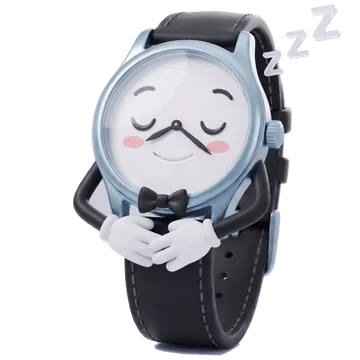
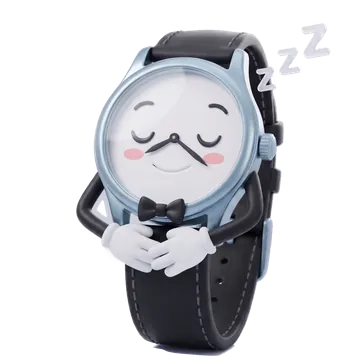
Mascota: 13 poses nuevas (lupa, senala, regla, paquete, celebra, triste, muneca, lee, noche, navidad, madre, sanvalentin, padre) y frases segun el momento: saludo por la hora o "¡Cuanto tiempo!" si vuelve tras dias, busqueda sin resultados con lupa (el globito abre WhatsApp con lo buscado), "¿Volvem

Changed region(s): [[0.1833, 0.0, 0.9472, 1.0], [0.4278, 0.9472, 0.4889, 0.9778]]

diff --git a/js/catalogo/mascota.js b/js/catalogo/mascota.js
@@ -9,6 +9,7 @@ import { WHATSAPP_NUM } from './whatsapp.js';
 import { buscadorAbierto, toggleBuscador } from './buscador.js';
 import { vibrar } from './ui.js';
 import { sesion } from './sesion.js';
+import { ofertaDe } from '../sitio/promos.js';
 
 const ICONOS = {
   chat: '<path d="M21 12a8 8 0 0 1-11.6 7.1L4 20.5l1.4-4.9A8 8 0 1 1 21 12z"/><path d="M8.5 10.5h7M8.5 13.5h4.5"/>',
@@ -23,31 +24,60 @@ const OPCIONES = [
 ];
 
 // Poses 3D de la mascota (img/mascota/*.webp, 360x360 con fondo transparente, todas con el mismo encuadre).
-// Se apilan y solo se ve la pose activa (data-pose en .mascota). La normal es 'recepcion' (manos juntas,
-// agujas en 8:20 como bigote); 'saludo' es la de entrada.
-const POSES = ['recepcion', 'saludo', 'pulgar', 'pensativo', 'sorpresa', 'enamorado', 'dormido', 'tapa'];
-const POSES_YA = ['recepcion', 'saludo'];   // se ven al abrir la pagina: se cargan de una vez
+// Se apilan y solo se ve la pose activa (clase .activa). La normal es 'recepcion' (manos juntas, agujas en
+// 8:20 como bigote) o la de temporada; 'saludo' es la de entrada.
+// POSES = imagenes que YA existen en img/mascota/. Poka-yoke: una pose pedida que aun no tiene imagen usa
+// su RESPALDO (nunca se ve una imagen rota). Al subir una imagen nueva basta con sumarla a POSES.
+const POSES = ['recepcion', 'saludo', 'pulgar', 'pensativo', 'sorpresa', 'enamorado', 'dormido', 'tapa',
+  'lupa', 'senala', 'regla', 'paquete', 'celebra', 'triste', 'muneca', 'lee', 'noche',
+  'navidad', 'madre', 'sanvalentin', 'padre'];
+const RESPALDO = { lupa: 'pensativo', senala: 'pulgar', regla: 'pensativo', paquete: 'pulgar', celebra: 'saludo',
+  triste: 'pensativo', muneca: 'saludo', lee: 'pensativo', noche: 'dormido',
+  navidad: 'recepcion', madre: 'recepcion', sanvalentin: 'recepcion', padre: 'recepcion' };
+function resolverPose(p){
+  for(var i = 0; i < 3 && POSES.indexOf(p) < 0; i++) p = RESPALDO[p] || 'recepcion';
+  return POSES.indexOf(p) >= 0 ? p : 'recepcion';
+}
+// temporada (Panama): la pose normal y el saludo cambian solos en estas fechas
+function temporada(f){
+  f = f || new Date();
+  var m = f.getMonth() + 1, d = f.getDate();
+  if(m === 12 && d <= 8) return 'madre';                 // Dia de la Madre: 8 de diciembre
+  if(m === 12) return 'navidad';
+  if(m === 2 && d >= 7 && d <= 14) return 'sanvalentin';
+  if(m === 6){                                           // Dia del Padre: tercer domingo de junio (10 dias antes)
+    var dom = 1 + (7 - new Date(f.getFullYear(), 5, 1).getDay()) % 7 + 14;
+    if(d >= dom - 10 && d <= dom) return 'padre';
+  }
+  return '';
+}
+const FRASE_TEMPORADA = { madre: '¿Ya tienes el regalo de mamá?', navidad: '¿Buscas el regalo de Navidad perfecto?',
+  sanvalentin: '¿Un regalo para San Valentín?', padre: '¿Ya tienes el regalo de papá?' };
+const POSES_YA = ['recepcion', 'saludo', resolverPose(temporada())];   // se ven al abrir la pagina: se cargan de una vez
 const DIBUJO = '<span class="masc-poses" aria-hidden="true">' + POSES.map(function(p){
-  // la pose inicial se carga ya; las demas cuando la pagina termina de cargar (ver precargarPoses)
+  // las poses iniciales se cargan ya; las demas cuando la pagina termina de cargar (ver precargarPoses)
   return '<img class="masc-pose" data-p="' + p + '" alt="" width="360" height="360" decoding="async" draggable="false" ' +
     (POSES_YA.indexOf(p) >= 0 ? 'src' : 'data-src') + '="img/mascota/' + p + '.webp">';
 }).join('') + '</span>';
 
 // Que pose mostrar segun la cara y el gesto que pide el resto del codigo.
-// Prioridad: contrasena (tapa; espia tambien usa tapa) > cara > gesto > recepcion.
-const POSE_DE_CARA = { feliz: 'saludo', guino: 'pulgar', emocionado: 'pulgar', timido: 'pulgar', sorpresa: 'sorpresa',
-  pensativo: 'pensativo', arriba: 'pensativo', enamorado: 'enamorado', dormido: 'dormido' };
-const POSE_DE_GESTO = { pulgar: 'pulgar', senala: 'pulgar', menton: 'pensativo' };
+// Prioridad: contrasena (tapa; espia tambien usa tapa) > cara > gesto > pose normal (temporada o recepcion).
+// Una cara que no esta en POSE_DE_CARA se usa como nombre de pose (lupa, paquete, celebra, triste...).
+const POSE_DE_CARA = { feliz: 'saludo', guino: 'pulgar', emocionado: 'pulgar', timido: 'pulgar', arriba: 'pensativo' };
+const POSE_DE_GESTO = { pulgar: 'pulgar', senala: 'senala', menton: 'pensativo', regla: 'regla' };
 function poseActual(){
   var g = _raiz.dataset.gesto, c = _raiz.dataset.cara;
   if(g === 'tapa' || g === 'espia') return 'tapa';
-  return POSE_DE_CARA[c] || POSE_DE_GESTO[g] || 'recepcion';
+  return resolverPose((c && (POSE_DE_CARA[c] || c)) || POSE_DE_GESTO[g] || temporada() || 'recepcion');
 }
 function actualizarPose(){
   var p = poseActual();
   if(_raiz.dataset.pose === p) return;
-  var img = _raiz.querySelector('.masc-pose[data-p="' + p + '"]');
-  if(img && !img.getAttribute('src')) img.src = img.dataset.src;   // por si se pide antes de precargar
+  _raiz.querySelectorAll('.masc-pose').forEach(function(img){
+    var es = img.dataset.p === p;
+    if(es && !img.getAttribute('src')) img.src = img.dataset.src;   // por si se pide antes de precargar
+    img.classList.toggle('activa', es);
+  });
   _raiz.dataset.pose = p;
 }
 function precargarPoses(){
@@ -102,7 +132,8 @@ function cerrarPanel(){
   _panel.classList.remove('on');
   setTimeout(function(){ if(!_abierta) _panel.hidden = true; }, 220);
 }
-function ocultarBurbuja(){ if(_burbuja) _burbuja.classList.remove('on'); }
+let _accionBurbuja = null;   // lo que hace tocar el globito (volver arriba, WhatsApp...), si tiene
+function ocultarBurbuja(){ if(_burbuja){ _burbuja.classList.remove('on', 'con-accion'); _accionBurbuja = null; } }
 
 function crear(){
   _raiz = document.createElement('div');
@@ -145,13 +176,36 @@ function crear(){
   document.addEventListener('click', function(e){ if(_abierta && !_raiz.contains(e.target)) cerrarPanel(); });
   document.addEventListener('keydown', function(e){ if(e.key === 'Escape' && _abierta){ cerrarPanel(); _boton.focus(); } });
 
-  // saludo la primera vez en la sesion: "¿Te ayudo a elegir?" unos segundos
-  var visto = false;
+  // tocar el globito hace su accion (si tiene): volver arriba, escribir por WhatsApp...
+  _burbuja.addEventListener('click', function(){ var a = _accionBurbuja; ocultarBurbuja(); if(a) a(); });
+
+  saludoInicial();
+}
+
+// Saludo la primera vez en la sesion (unos segundos despues de entrar), segun el caso:
+//   volvio tras 3 dias o mas -> mira su "muneca": "¡Cuanto tiempo! Mira lo nuevo"
+//   temporada (Navidad, Dia de la Madre, San Valentin, Dia del Padre) -> la frase de la fecha
+//   primera visita del dia -> buenos dias / buenas tardes / buenas noches (de noche: "¿Desvelado?")
+//   si no -> "¿Te ayudo a elegir?"
+function saludoInicial(){
+  var visto = false, ultima = 0, ahora = Date.now();
   try{ visto = sessionStorage.getItem('ap_masc_hola') === '1'; sessionStorage.setItem('ap_masc_hola', '1'); }catch(e){}
-  if(!visto){
-    setTimeout(function(){ if(!_abierta) _burbuja.classList.add('on'); }, 2600);
-    setTimeout(ocultarBurbuja, 9000);
+  try{ ultima = +localStorage.getItem('ap_masc_ultima') || 0; localStorage.setItem('ap_masc_ultima', String(ahora)); }catch(e){}
+  if(visto) return;
+  var h = new Date().getHours(), temp = temporada();
+  var otroDia = !ultima || new Date(ultima).toDateString() !== new Date(ahora).toDateString();
+  var texto = '¿Te ayudo a elegir?', cara = '';
+  if(ultima && ahora - ultima >= 3 * 864e5){ texto = '¡Cuánto tiempo! Mira lo nuevo'; cara = 'muneca'; }
+  else if(temp){ texto = FRASE_TEMPORADA[temp]; }
+  else if(otroDia){
+    if(h >= 22 || h < 6){ texto = '¡Buenas noches! ¿Desvelado? Yo también'; cara = POSES.indexOf('noche') >= 0 ? 'noche' : ''; }   // sin su imagen de pijama se veria dormido
+    else texto = (h < 12 ? '¡Buenos días!' : h < 19 ? '¡Buenas tardes!' : '¡Buenas noches!') + ' ¿Te ayudo a elegir?';
   }
+  setTimeout(function(){
+    if(_abierta) return;
+    if(cara) gesto(cara, '', 3600);
+    decir(texto, 6400, true);
+  }, 2600);
 }
 
 // ---------- gestos al cambiar de seccion ----------
@@ -204,7 +258,7 @@ function vigilarVistas(){
 // lo que hace el cliente (clic, seccion, favorito, buscador, contrasena...), nunca al pasar el cursor. Frases cortas en el globito, sin repetirse seguido (una cada ~8 s como mucho).
 let _tGesto = 0, _ultimaFrase = 0, _tFrase = 0;
 function gesto(cara, g, ms){
-  if(_abierta || _raiz.dataset.cara === 'dormido' && cara !== 'sorpresa') return;
+  if(_abierta || _raiz.classList.contains('durmiendo') && cara !== 'sorpresa') return;
   if(_raiz.dataset.gesto === 'tapa' || _raiz.dataset.gesto === 'espia') return;
   _raiz.dataset.cara = cara;
   if(g) _raiz.dataset.gesto = g; else delete _raiz.dataset.gesto;
@@ -212,23 +266,32 @@ function gesto(cara, g, ms){
   _tCara = setTimeout(function(){ delete _raiz.dataset.cara; }, ms || 2600);
   _tGesto = setTimeout(function(){ delete _raiz.dataset.gesto; }, ms || 2600);
 }
-function decir(texto, ms, forzar){
+function decir(texto, ms, forzar, accion){
   if(_abierta || !_burbuja) return;
   var ahora = Date.now();
   if(!forzar && ahora - _ultimaFrase < 8000) return;
   _ultimaFrase = ahora;
   _burbuja.textContent = texto;
+  _accionBurbuja = accion || null;
+  _burbuja.classList.toggle('con-accion', !!accion);
+  _burbuja.classList.remove('on'); void _burbuja.offsetWidth;   // reinicia el rebote si ya estaba visible
   _burbuja.classList.add('on');
   clearTimeout(_tFrase);
   _tFrase = setTimeout(ocultarBurbuja, ms || 3200);
 }
 function alAzar(lista){ return lista[Math.floor(Math.random() * lista.length)]; }
 function personalidad(){
-  // reloj abierto: a veces comenta, senalando
-  document.addEventListener('reloj-abierto', function(){
-    if(Math.random() < .6) setTimeout(function(){
-      gesto('emocionado', 'senala', 2800);
-      decir(alAzar(['¡Qué buena elección!', 'Este es de mis favoritos', '¿Te ayudo con la talla?', '¡Mira qué detalles!']));
+  // reloj abierto: si tiene oferta lo dice siempre (sorprendido); si no, a veces comenta:
+  // "¿Es para regalo?" (pensativo), "¿Te ayudo con la talla?" (con la regla) u otra frase (senalando)
+  document.addEventListener('reloj-abierto', function(e){
+    var r = e.detail || {};
+    var oferta = false; try{ oferta = !!ofertaDe(r); }catch(err){}
+    setTimeout(function(){
+      if(oferta){ gesto('sorpresa', '', 3000); decir('¡Este tiene precio especial!', 3600, true); return; }
+      var azar = Math.random();
+      if(azar < .2 && (r.genero === 'hombre' || r.genero === 'mujer')){ gesto('pensativo', 'menton', 3000); decir('¿Es para regalo?', 3200); }
+      else if(azar < .4){ gesto('regla', 'regla', 3200); decir('¿Te ayudo con la talla?', 3400); }
+      else if(azar < .7){ gesto('emocionado', 'senala', 2800); decir(alAzar(['¡Qué buena elección!', 'Este es de mis favoritos', '¡Mira qué detalles!'])); }
     }, 1100);
   });
   // favorito agregado: emocionado con el pulgar arriba
@@ -238,6 +301,7 @@ function personalidad(){
     F.alCambiarFavoritos(function(){
       var n = F._favoritos.size;
       if(n > nFav){ gesto('enamorado', 'pulgar', 2800); decir(alAzar(['¡Me encanta! Guardado en favoritos', '¡Excelente gusto!', '¡Ese es un flechazo!']), 2800, true); }
+      else if(n < nFav && nFav > 0){ gesto('triste', '', 2600); decir('Ay… ¿no era el indicado?', 2800, true); }
       nFav = n;
     });
   });
@@ -252,14 +316,14 @@ function personalidad(){
       abierto = ahora;
     }).observe(hd, { attributes: true, attributeFilter: ['class'] });
   }
-  // "Comprar por WhatsApp": guino y pulgar arriba
+  // "Comprar por WhatsApp": con su paquete, recuerda que se envia a todo Panama
   var wa = document.getElementById('modal-wa');
-  if(wa) wa.addEventListener('click', function(){ gesto('guino', 'pulgar', 2600); decir('¡Te esperamos en WhatsApp!', 2600, true); });
+  if(wa) wa.addEventListener('click', function(){ gesto('paquete', 'pulgar', 3000); decir('¡Te lo enviamos a todo Panamá!', 3200, true); });
   // tic, tac: si el cliente lleva rato mirando un reloj, se pone pensativo, se balancea y lo comenta
   var tTic = 0, idTic = '', vecesTic = 0;
   var FRASES_TIC = ['Tic, tac… este reloj te está esperando', 'Tic-tac, tic-tac… ¿te lo llevas?', 'El tiempo vuela… y este reloj también', 'Tic, tac… ¿te ayudo a decidir?'];
   var tictac = function(){
-    if(_abierta || _raiz.dataset.cara === 'dormido' || _raiz.dataset.gesto === 'tapa') return;
+    if(_abierta || _raiz.classList.contains('durmiendo') || _raiz.dataset.gesto === 'tapa') return;
     clearTimeout(_tCara); clearTimeout(_tGesto); delete _raiz.dataset.gesto;
     _raiz.dataset.cara = 'arriba';
     var e = _raiz.querySelector('.masc-entra'); _raiz.classList.remove('tictac'); void e.offsetWidth;
@@ -292,16 +356,71 @@ function personalidad(){
   var tSiesta = 0;
   var despertar = function(){
     clearTimeout(tSiesta);
-    if(_raiz.dataset.cara === 'dormido'){ _raiz.classList.remove('durmiendo'); delete _raiz.dataset.cara; gesto('sorpresa', '', 1200); }
+    if(_raiz.classList.contains('durmiendo')){ _raiz.classList.remove('durmiendo'); delete _raiz.dataset.cara; gesto('sorpresa', '', 1200); }
     tSiesta = setTimeout(function(){
       if(_abierta || document.hidden) return;
       if(document.body.classList.contains('prod-abierto')){ despertar(); return; }   // mirando un reloj no se duerme (hace tic-tac)
       clearTimeout(_tCara); clearTimeout(_tGesto); delete _raiz.dataset.gesto;
-      _raiz.dataset.cara = 'dormido'; _raiz.classList.add('durmiendo'); ocultarBurbuja();
+      var deNoche = new Date().getHours() >= 22 || new Date().getHours() < 6;   // de noche duerme con pijama y gorro
+      _raiz.classList.add('durmiendo'); _raiz.dataset.cara = deNoche ? 'noche' : 'dormido'; ocultarBurbuja();
     }, (new Date().getHours() >= 22 || new Date().getHours() < 6) ? 25000 : 45000);
   };
   ['pointermove', 'pointerdown', 'keydown', 'scroll', 'touchstart'].forEach(function(ev){ window.addEventListener(ev, despertar, { passive: true }); });
   despertar();
+
+  // filtrar u ordenar: pensativo
+  ['modal-filtros', 'modal-orden'].forEach(function(id){
+    var m = document.getElementById(id); if(!m) return;
+    var abierto = false;
+    new MutationObserver(function(){
+      var ahora = m.classList.contains('open');
+      if(ahora && !abierto){ gesto('pensativo', 'menton', 3000); decir('¿Buscas algo en particular?', 3000); }
+      abierto = ahora;
+    }).observe(m, { attributes: true, attributeFilter: ['class'] });
+  });
+  // busqueda sin resultados (avisa buscador.js): con la lupa, y tocar el globito abre WhatsApp con lo que busco
+  var tVacia = 0;
+  document.addEventListener('busqueda-vacia', function(e){
+    clearTimeout(tVacia);
+    var q = String(e.detail || '').trim();
+    tVacia = setTimeout(function(){   // espera a que termine de escribir
+      if(!q) return;
+      gesto('lupa', '', 4600);
+      decir('No lo encontré… ¿lo buscamos juntos por WhatsApp?', 5600, true, function(){
+        window.open('https://wa.me/' + WHATSAPP_NUM + '?text=' + encodeURIComponent('¡Hola! Estoy buscando un reloj: ' + q), '_blank', 'noopener');
+      });
+    }, 1100);
+  });
+  document.addEventListener('busqueda-con-resultados', function(){ clearTimeout(tVacia); if(_raiz.dataset.cara === 'lupa'){ delete _raiz.dataset.cara; ocultarBurbuja(); } });
+  // cuenta nueva (avisa cuenta.js): celebra
+  document.addEventListener('cuenta-creada', function(){ reaccionar('salto', 'celebra', true); decir('¡Bienvenido a APHILLIPS STORE!', 4000, true); });
+  // enlace de un reloj copiado (avisa modal.js): pulgar
+  document.addEventListener('enlace-compartido', function(){ gesto('guino', 'pulgar', 2600); decir('¡Compártelo con quien quieras!', 3000, true); });
+  // listado largo: tras bajar unas pantallas senala hacia arriba; tocar el globito vuelve arriba (una vez por listado)
+  var listadoAvisado = '', cargada = Date.now();
+  window.addEventListener('scroll', function(){
+    var b = document.body;
+    if(Date.now() - cargada < 3000) return;   // al cargar el navegador puede devolver la pagina abajo: eso no es bajar
+    if(!b.classList.contains('vista-catalogo') || b.classList.contains('prod-abierto') || _abierta) return;
+    if(window.scrollY < window.innerHeight * 3 || listadoAvisado === _clave) return;
+    listadoAvisado = _clave;
+    gesto('senala', 'senala', 3600);
+    decir('¿Volvemos arriba?', 4400, true, function(){ window.scrollTo({ top: 0, behavior: 'smooth' }); });
+  }, { passive: true });
+  // consejos de relojes: pocos (2 por visita como mucho), solo si lleva rato tranquilo, leyendo su papelito
+  var CONSEJOS = ['¿Sabías que el automático se carga con el movimiento de tu muñeca?', 'Tip: un reloj de 40 a 42 mm le queda bien a casi todas las muñecas',
+    'El cristal de zafiro es casi imposible de rayar', '¿Sabías que 100 m de resistencia sirven para nadar, no para bucear?',
+    'Tip: la correa de cuero se cuida lejos del agua y del perfume', 'Un cronógrafo es un reloj con cronómetro incorporado'];
+  var inicio = Date.now(), consejosDichos = 0;
+  try{ consejosDichos = +sessionStorage.getItem('ap_masc_consejos') || 0; }catch(e){}
+  setInterval(function(){
+    if(consejosDichos >= 2 || document.hidden || _abierta || _raiz.classList.contains('durmiendo')) return;
+    if(_raiz.dataset.cara || _raiz.dataset.gesto || Date.now() - inicio < 75000 || Date.now() - _ultimaFrase < 90000) return;
+    consejosDichos++;
+    try{ sessionStorage.setItem('ap_masc_consejos', String(consejosDichos)); }catch(e){}
+    gesto('lee', '', 6000);
+    decir(alAzar(CONSEJOS), 6400, true);
+  }, 20000);
 }
 
 // ---------- contrasenas: se tapa los ojos (y espia si el cliente la muestra) ----------

diff --git a/css/catalogo/mascota.css b/css/catalogo/mascota.css
@@ -4,13 +4,10 @@
   .masc-boton{position:relative;width:78px;height:108px;padding:0;border:none;background:none;cursor:pointer;-webkit-tap-highlight-color:transparent;}
   .masc-boton:focus-visible{outline:2px solid var(--black);outline-offset:2px;border-radius:12px;}
   .masc-flota{position:absolute;left:0;right:0;top:0;bottom:8px;display:block;animation:mascFlota 3.4s ease-in-out infinite;will-change:transform;}
-  /* poses 3D apiladas: solo se ve la activa (data-pose); el cambio es directo (fundirlas dejaba ver las dos a medias); mas anchas que el boton para que quepan los brazos */
+  /* poses 3D apiladas: solo se ve la activa (.activa, la pone mascota.js); el cambio es directo (fundirlas dejaba ver las dos a medias); mas anchas que el boton para que quepan los brazos */
   .masc-poses{position:absolute;left:50%;bottom:0;width:116%;aspect-ratio:1;transform:translateX(-50%);display:block;pointer-events:none;}
   .masc-pose{position:absolute;inset:0;width:100%;height:100%;display:block;object-fit:contain;opacity:0;user-select:none;-webkit-user-drag:none;filter:drop-shadow(0 5px 6px rgba(9,9,11,.18));}
-  .mascota[data-pose="recepcion"] .masc-pose[data-p="recepcion"],.mascota[data-pose="saludo"] .masc-pose[data-p="saludo"],.mascota[data-pose="pulgar"] .masc-pose[data-p="pulgar"],
-  .mascota[data-pose="pensativo"] .masc-pose[data-p="pensativo"],.mascota[data-pose="sorpresa"] .masc-pose[data-p="sorpresa"],
-  .mascota[data-pose="enamorado"] .masc-pose[data-p="enamorado"],.mascota[data-pose="dormido"] .masc-pose[data-p="dormido"],
-  .mascota[data-pose="tapa"] .masc-pose[data-p="tapa"]{opacity:1;animation:mascPose .35s cubic-bezier(.3,1.4,.5,1) both;}
+  .masc-pose.activa{opacity:1;animation:mascPose .35s cubic-bezier(.3,1.4,.5,1) both;}
   /* la pose que aparece entra con un pequeno rebote */
   .masc-pose{transform-origin:50% 95%;}
   @keyframes mascPose{from{transform:scale(.92);}to{transform:none;}}
@@ -24,10 +21,14 @@
   .masc-boton:active .masc-flota{transform:scale(.94);}
 
   /* globito "¿Te ayudo a elegir?" */
-  .masc-burbuja{position:relative;margin:0 14px 12px 0;padding:10px 15px 11px;background:var(--masc-metal);color:var(--black);font-size:var(--fs-etiqueta);font-weight:700;letter-spacing:.02em;border:1.5px solid rgba(255,255,255,.9);border-radius:16px;box-shadow:var(--masc-relieve),0 10px 22px -6px rgba(9,9,11,.30),0 2px 5px rgba(9,9,11,.10);white-space:nowrap;opacity:0;transform:translateY(8px) scale(.9);transform-origin:85% 100%;transition:opacity .2s var(--ease),transform .2s var(--ease);pointer-events:none;}
+  .masc-burbuja{position:relative;margin:0 14px 12px 0;padding:10px 15px 11px;background:var(--masc-metal);color:var(--black);font-size:var(--fs-etiqueta);font-weight:700;letter-spacing:.02em;border:1.5px solid rgba(255,255,255,.9);border-radius:16px;box-shadow:var(--masc-relieve),0 10px 22px -6px rgba(9,9,11,.30),0 2px 5px rgba(9,9,11,.10);width:max-content;max-width:min(250px,calc(100vw - 48px));line-height:1.35;text-align:left;text-wrap:balance;opacity:0;transform:translateY(8px) scale(.9);transform-origin:85% 100%;transition:opacity .2s var(--ease),transform .2s var(--ease);pointer-events:none;}
   /* colita redondeada que apunta a la mascota (mismo metal y borde blanco) */
   .masc-burbuja::after{content:"";position:absolute;right:22px;bottom:-8px;width:14px;height:14px;background:#A3BFD1;border-right:1.5px solid rgba(255,255,255,.9);border-bottom:1.5px solid rgba(255,255,255,.9);border-bottom-right-radius:4px;transform:rotate(45deg);box-shadow:3px 3px 6px -2px rgba(9,9,11,.18);}
   .masc-burbuja.on{opacity:1;transform:none;animation:mascBurbuja .45s cubic-bezier(.3,1.5,.5,1) both;}
+  /* globito que se puede tocar (volver arriba, escribir por WhatsApp): recibe el clic y muestra una flechita */
+  .masc-burbuja.on.con-accion{pointer-events:auto;cursor:pointer;}
+  .masc-burbuja.con-accion::before{content:"›";margin-left:6px;font-weight:800;float:right;}
+  .masc-burbuja.on.con-accion:focus-visible{outline:2px solid var(--black);outline-offset:2px;}
   @keyframes mascBurbuja{0%{transform:translateY(8px) scale(.8);}60%{transform:translateY(-2px) scale(1.04);}100%{transform:none;}}
 
   /* mini ventana de opciones */

diff --git a/js/catalogo/modal.js b/js/catalogo/modal.js
@@ -231,7 +231,7 @@ function compartirReloj(r){
     navigator.share({ title: (r.nombre || 'Reloj') + ' — APHILLIPS STORE', text: 'Mira este reloj en APHILLIPS STORE', url: url }).catch(function(){});
     return;
   }
-  var listo = function(){ toast('Enlace copiado. Pégalo donde quieras compartirlo.'); };
+  var listo = function(){ toast('Enlace copiado. Pégalo donde quieras compartirlo.'); document.dispatchEvent(new CustomEvent('enlace-compartido')); };
   if(navigator.clipboard && navigator.clipboard.writeText) navigator.clipboard.writeText(url).then(listo, function(){ copiarRespaldo(url, listo); });
   else copiarRespaldo(url, listo);
 }

diff --git a/js/catalogo/buscador.js b/js/catalogo/buscador.js
@@ -80,6 +80,8 @@ function mostrarResultadosPanel(){
   cont.innerHTML = res.length
     ? res.slice(0, MAX_EN_PANEL).map(_tarjeta).join('')
     : '<p class="bs-vacio">No encontramos relojes para “'+esc(q)+'”. Prueba con otra marca, modelo, color o material, o escríbenos por WhatsApp y te ayudamos a conseguirlo.</p>';
+  // la mascota saca la lupa si no hay resultados (y la guarda si vuelve a haber)
+  document.dispatchEvent(new CustomEvent(res.length ? 'busqueda-con-resultados' : 'busqueda-vacia', { detail: q }));
 }
 function buscarEscribiendo(){
   mostrarResultadosPanel();

diff --git a/sw.js b/sw.js
@@ -1,7 +1,7 @@
 // Service Worker de APHILLIPS STORE â€” version del cache
 // Cada vez que publiques cambios en HTML, CSS o JS, sube este numero
 // (ej: 'aphillips-v3'). Al activarse la version nueva se borra el cache viejo.
-const CACHE_NAME = 'aphillips-v169';
+const CACHE_NAME = 'aphillips-v170';
 
 // Solo el "cascaron" de la app: nunca datos, nunca Firebase, nunca fuentes externas.
 // Si agregas o renombras un archivo en /css o /js, agregalo tambien aqui.

diff --git a/js/catalogo/cuenta.js b/js/catalogo/cuenta.js
@@ -179,6 +179,7 @@ function crearCuenta(ev){
     try{ await enviarVerificacion(cred.user, d.nombre); }catch(e){ /* puede pedir otro correo desde la vista de verificar */ }
     _porVerificar = d.email;
     render();
+    document.dispatchEvent(new CustomEvent('cuenta-creada'));   // la mascota celebra
   });
   return false;
 }
